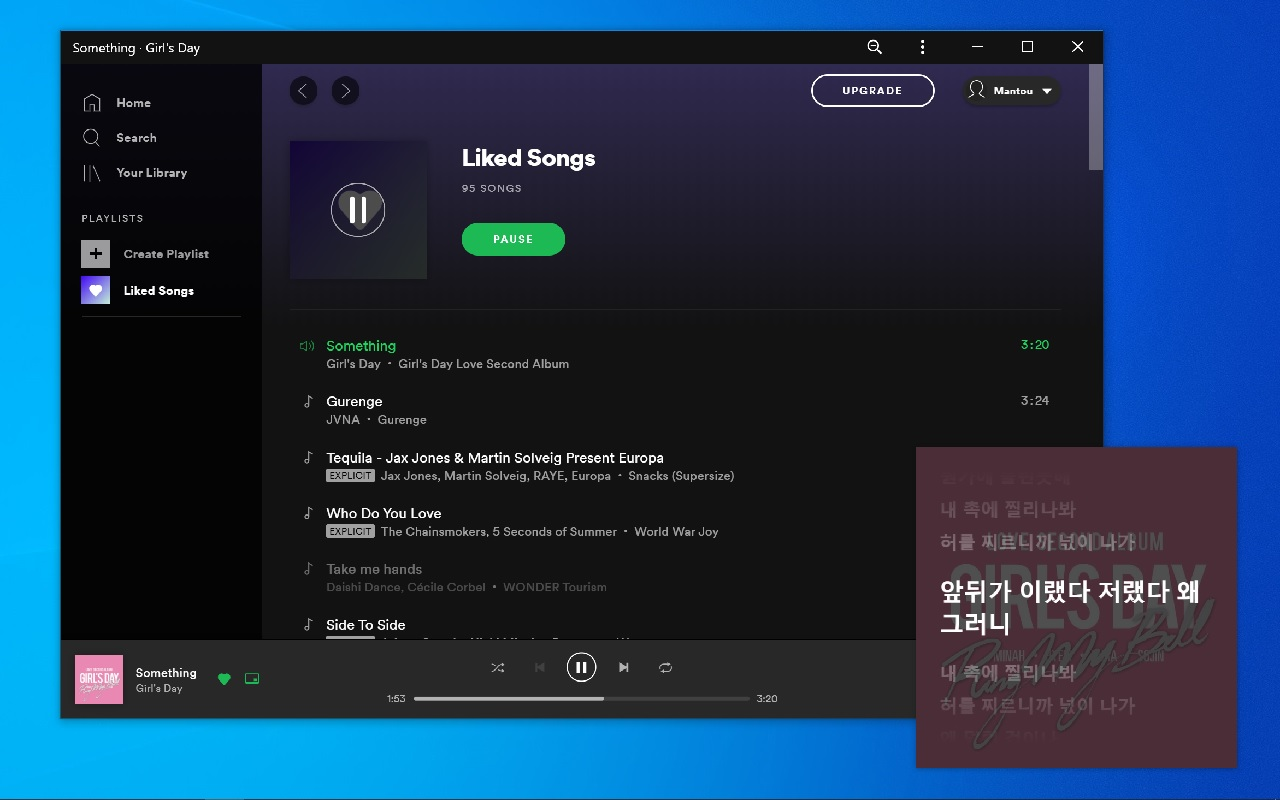
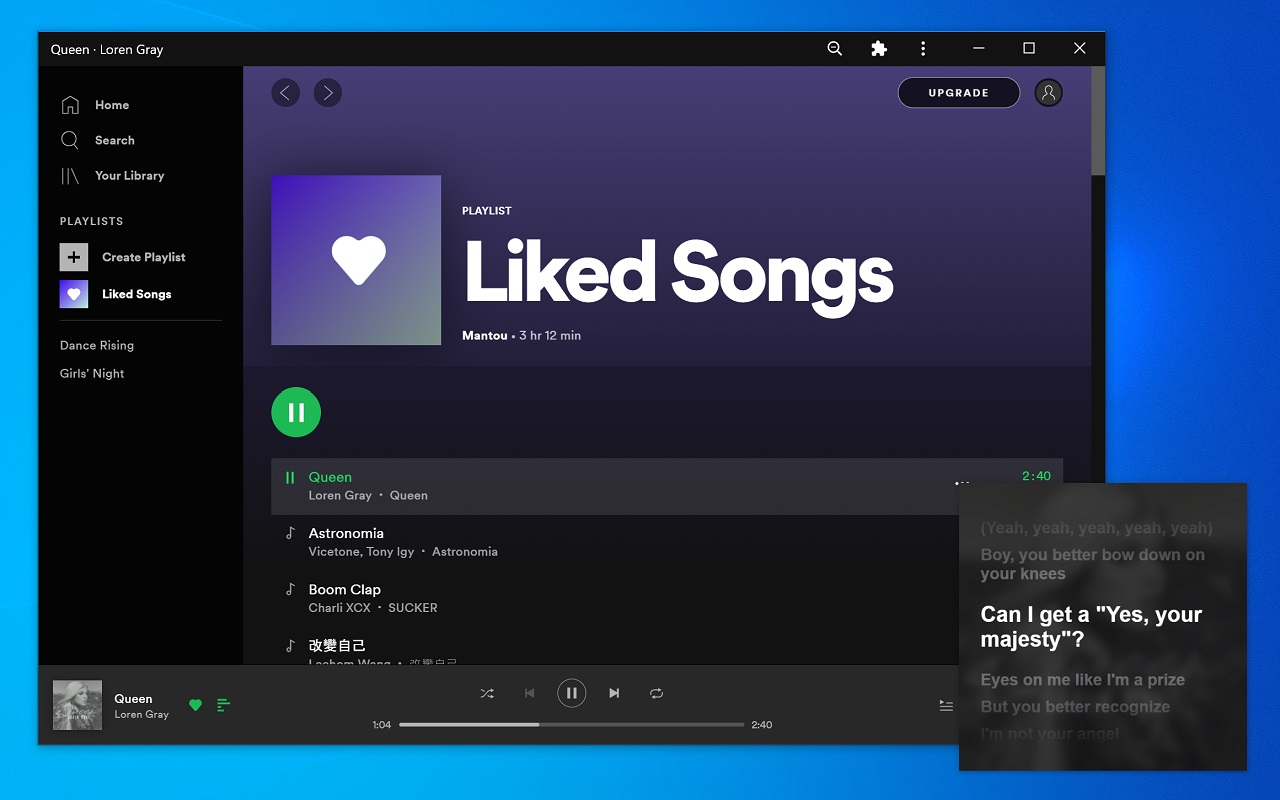
Add lyrics button

diff --git a/src/page/observer.ts b/src/page/observer.ts
@@ -1,5 +1,10 @@
 import config from '../common/config';
 
+import { video } from './element';
+import { insetLyricsBtn } from './btn';
+
+export const WIDTH = 640;
+export const HEIGHT = 640;
 export interface Query {
   name: string;
   artists: string;
@@ -8,7 +13,7 @@ export interface Query {
 const weakMap = new WeakMap<Element, MutationObserver>();
 
 export default async function songObserver(callback: (query: Query) => any) {
-  const { TRACK_INFO_SELECTOR, TRACK_NAME_SELECTOR, TRACK_ARTIST_SELECTOR } = await config;
+  const { ALBUM_COVER_SELECTOR, TRACK_INFO_SELECTOR, TRACK_NAME_SELECTOR, TRACK_ARTIST_SELECTOR } = await config;
 
   const getQueryObj = (): Query => {
     const name = document.querySelector(TRACK_NAME_SELECTOR)?.textContent;
@@ -20,6 +25,22 @@ export default async function songObserver(callback: (query: Query) => any) {
     const element = document.querySelector(TRACK_INFO_SELECTOR);
 
     if (element && !weakMap.has(element)) {
+      const cover = document.querySelector(ALBUM_COVER_SELECTOR) as HTMLImageElement;
+      const coverCanvas = document.createElement('canvas');
+      coverCanvas.width = WIDTH;
+      coverCanvas.height = HEIGHT;
+      const ctx = coverCanvas.getContext('2d');
+      if (!ctx) return;
+      ctx.imageSmoothingEnabled = false;
+      const blur = 10;
+      ctx.filter = `blur(${blur}px)`;
+      const coverTrack = coverCanvas.captureStream().getVideoTracks()[0] as CanvasCaptureMediaStreamTrack;
+      const stream = new MediaStream([coverTrack]);
+      video.srcObject = stream;
+      cover.addEventListener('load', () => {
+        ctx.drawImage(cover, -blur * 2, -blur * 2, WIDTH + 4 * blur, HEIGHT + 4 * blur);
+      });
+      insetLyricsBtn();
       // init observer
       callback(getQueryObj());
       const observer = new MutationObserver(() => {

diff --git a/src/page/btn.ts b/src/page/btn.ts
@@ -1,0 +1,47 @@
+import config from '../common/config';
+
+import { video } from './element';
+
+const LYRICS_CLASSNAME = 'spoticon-lyrics-16';
+
+const style = document.createElement('style');
+style.textContent = `
+  .${LYRICS_CLASSNAME}::before {
+    content: '\\f345';
+    font-size: 16px;
+    transform: rotate(90deg);
+    color: #b3b3b3;
+  }
+  .${LYRICS_CLASSNAME}.active::before {
+    color: #1db954;
+  }
+`;
+document.head.append(style);
+
+export const insetLyricsBtn = async () => {
+  const { BTN_WRAPPER_SELECTOR } = await config;
+  const btnWrapper = document.querySelector(BTN_WRAPPER_SELECTOR);
+  const likeBtn = btnWrapper?.children?.[0];
+  if (!btnWrapper || !likeBtn) return;
+  const lyricsBtn = likeBtn.cloneNode(true) as HTMLButtonElement;
+  lyricsBtn.classList.add(LYRICS_CLASSNAME);
+  lyricsBtn.title = 'Toggle lyrics';
+  video.addEventListener('enterpictureinpicture', () => {
+    lyricsBtn.classList.add('active');
+  });
+  video.addEventListener('leavepictureinpicture', () => {
+    lyricsBtn.classList.remove('active');
+  });
+  lyricsBtn.addEventListener('click', () => {
+    if (document.pictureInPictureElement) {
+      document.exitPictureInPicture().catch(() => {
+        //
+      });
+    } else {
+      video.requestPictureInPicture().catch(() => {
+        //
+      });
+    }
+  });
+  btnWrapper.append(lyricsBtn);
+};

diff --git a/src/common/config.ts b/src/common/config.ts
@@ -3,17 +3,23 @@ import config from './config.json';
 // fallback
 class Config {
   API_HOST = config.API_HOST;
+  ALBUM_COVER_SELECTOR = config.ALBUM_COVER_SELECTOR;
   TRACK_INFO_SELECTOR = config.TRACK_INFO_SELECTOR;
   TRACK_NAME_SELECTOR = config.TRACK_NAME_SELECTOR;
   TRACK_ARTIST_SELECTOR = config.TRACK_ARTIST_SELECTOR;
+  BTN_WRAPPER_SELECTOR = config.BTN_WRAPPER_SELECTOR;
 }
 
 async function getConfig() {
-  try {
-    return (await fetch(
-      'https://raw.githubusercontent.com/mantou132/Spotify-Lyrics/master/src/common/config.json',
-    ).then(res => res.json())) as Config;
-  } catch {
+  if (process.env.NODE_ENV === 'production') {
+    try {
+      return (await fetch(
+        'https://raw.githubusercontent.com/mantou132/Spotify-Lyrics/master/src/common/config.json',
+      ).then(res => res.json())) as Config;
+    } catch {
+      return new Config();
+    }
+  } else {
     return new Config();
   }
 }

diff --git a/src/page/element.ts b/src/page/element.ts
@@ -1,14 +1,12 @@
+const video = document.createElement('video');
 const createElement: typeof document.createElement = document.createElement.bind(document);
 
-let video: HTMLVideoElement | null = null;
 let audio: HTMLAudioElement | null = null;
 document.createElement = function<K extends keyof HTMLElementTagNameMap>(tagName: K, options: ElementCreationOptions) {
   const element = createElement(tagName, options);
   if (tagName === 'video') {
     if (!audio) {
       audio = element as HTMLAudioElement;
-    } else {
-      video = element as HTMLVideoElement;
     }
   }
   return element;

diff --git a/src/page/index.ts b/src/page/index.ts
@@ -1,7 +1,7 @@
 import { Event } from '../common/consts';
 
 import generateSVG from './svg';
-import songObserver, { Query } from './song';
+import songObserver, { Query, WIDTH, HEIGHT } from './observer';
 import { setSongId } from './store';
 import { video, audio } from './element';
 import { lyric, updateLyric, Lyric, sendMatchedData } from './lyrics';
@@ -23,8 +23,6 @@ declare global {
   }
 }
 
-const WIDTH = 640;
-const HEIGHT = 640;
 const INTERVAL = 80;
 
 const weakMap = new WeakMap<MediaStream, CanvasCaptureMediaStreamTrack>();

diff --git a/src/page/lyrics.ts b/src/page/lyrics.ts
@@ -5,7 +5,7 @@ import config from '../common/config';
 import { Message, Event } from '../common/consts';
 import { events, sendEvent } from '../common/ga';
 
-import { Query } from './song';
+import { Query } from './observer';
 import { getSongId } from './store';
 
 export interface Artist {

diff --git a/src/page/store.ts b/src/page/store.ts
@@ -1,4 +1,4 @@
-import { Query } from './song';
+import { Query } from './observer';
 
 const KEY = 'spotify.lyrics.extension';
 

diff --git a/README.md b/README.md
@@ -4,18 +4,18 @@
 
 Install Extension: [Chrome](https://chrome.google.com/webstore/detail/spotify-lyrics/mkjfooclbdgjdclepjeepbmmjaclipod) | [Firefox](https://addons.mozilla.org/en-US/firefox/addon/spotify-lyrics/)
 
-When you open the PiP(album cover) window, the lyrics are automatically displayed in it.
+Add lyrics button, when activated, the lyrics are displayed in the picture-in-picture window.
 
 If you have any questions, please submit an [issue](https://github.com/mantou132/Spotify-Lyrics/issues).
 
 ![screenshot](./screenshot/screenshot3.jpg)
 
-## How It Work
+## How To Work
 
-1. [Listen](https://developer.mozilla.org/en-US/docs/Web/API/MutationObserver) for `.track_info` element.
+1. [Listen](https://developer.mozilla.org/en-US/docs/Web/API/MutationObserver) for track info element.
 2. Search for songs and download lyrics using [`NeteaseCloudMusicApi`](https://github.com/Binaryify/NeteaseCloudMusicApi).
 3. Rendering lyrics to `<canvas>` using [SVG](https://developer.mozilla.org/en-US/docs/Web/SVG/Element/foreignObject).
-4. [Capture](https://developer.mozilla.org/en-US/docs/Web/API/HTMLCanvasElement/captureStream) video stream from `<canvas>` and merge onto original cover stream.
+4. [Capture](https://developer.mozilla.org/en-US/docs/Web/API/HTMLCanvasElement/captureStream) video stream from `<canvas>` and merge cover stream.
 5. Update lyrics scroll position with a [loop](https://developer.mozilla.org/en-US/docs/Web/API/WindowOrWorkerGlobalScope/setTimeout).
 
 ## Compatibility
